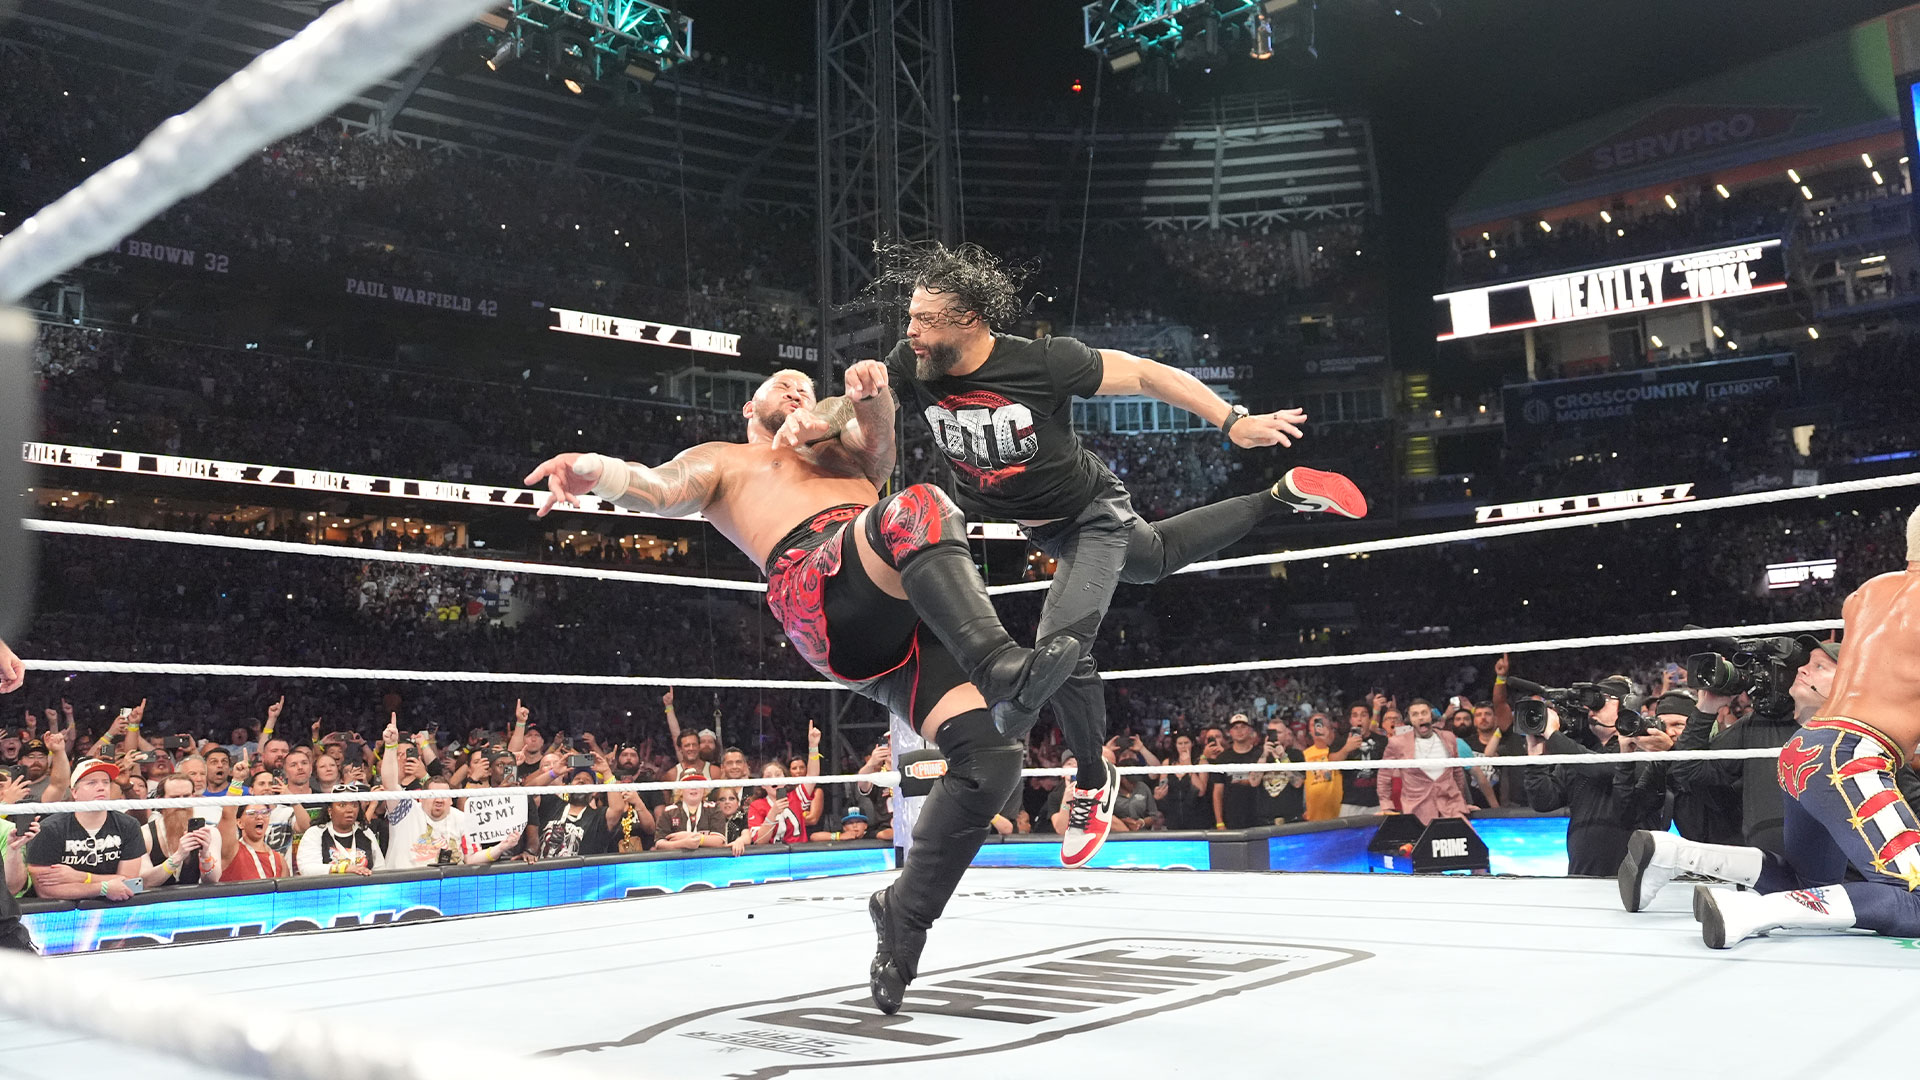
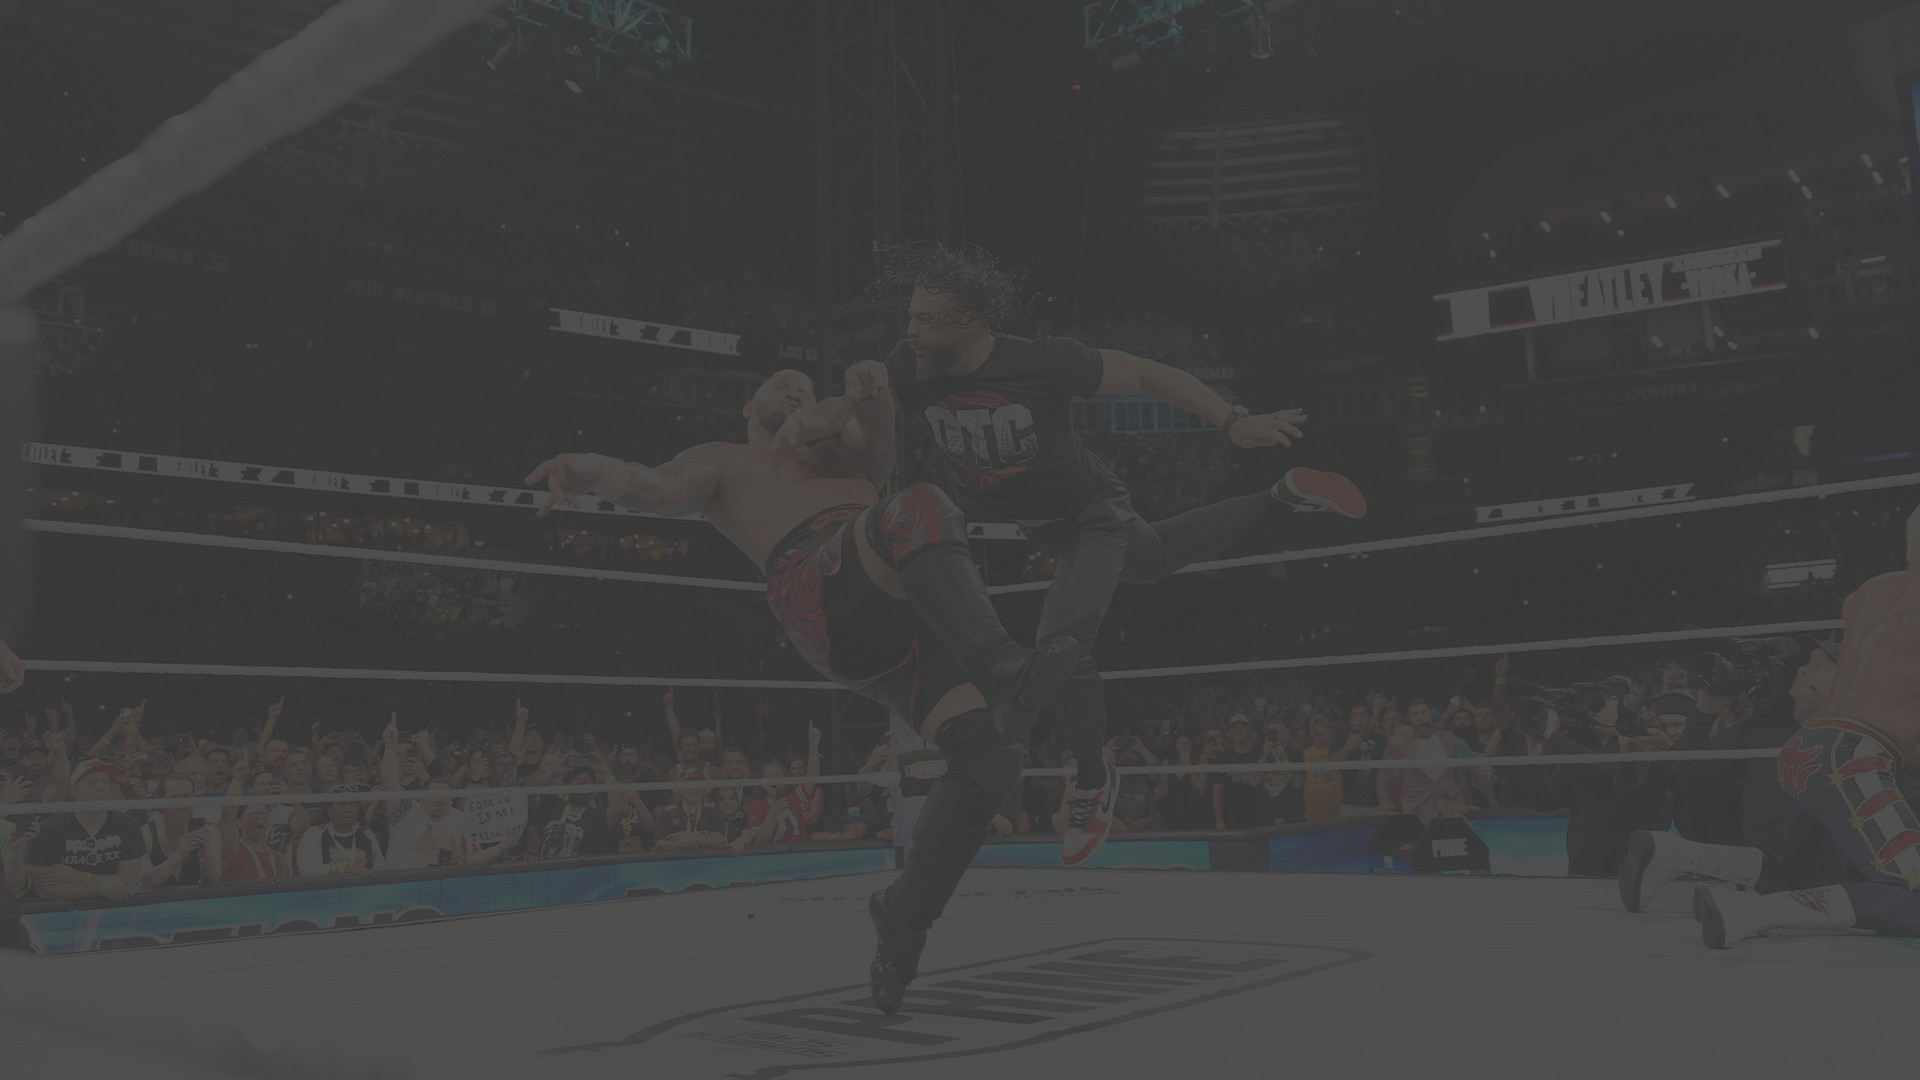
fix(front): changement de la bannière pour le header (sauf index.php)

diff --git a/wwe/inc/header.php b/wwe/inc/header.php
@@ -10,7 +10,7 @@
 
     <style>
         .banner {
-            background-image: url("img/banner.jpeg");
+            background-image: url("img/header_banner.jpeg");
         }
 
         nav {
